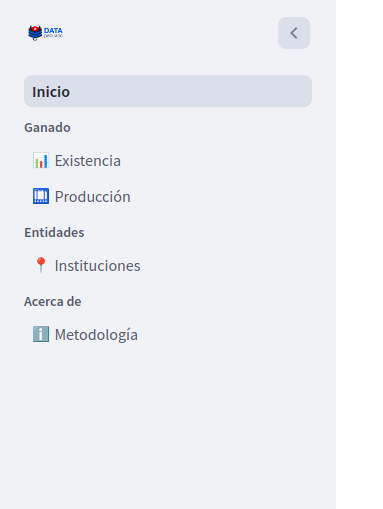
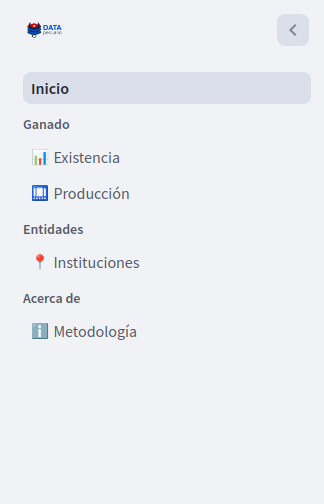
sidebar again

diff --git a/web/index.html b/web/index.html
@@ -30,8 +30,12 @@
     </div>
 </div>
 <div id="dataproduct" class="tab-content">
-        <a> A </a>
-
+    <div class="container">
+        <img src="https://github.com/LFrench03/Ganaderia-en-Cuba/raw/main/web/img/sidebar.png", alt="DataPecuario" width="600" height="600">
+        <div class="evento">
+            <h1 style="font-family: sans-serif;font-size: 33x;font-weight: bold;"><i style="color:rgb(0, 33, 66);">¿Qué se puede encontrar en nuestro DataProduct?</i></h1>
+        </div>
+    </div>
 </div>
 
 

diff --git a/web/styles.css b/web/styles.css
@@ -5,6 +5,7 @@ body {
     margin: 0;
     padding: 0;
 }
+ 
 
 header {
     background-color: rgba(0, 87, 214);
